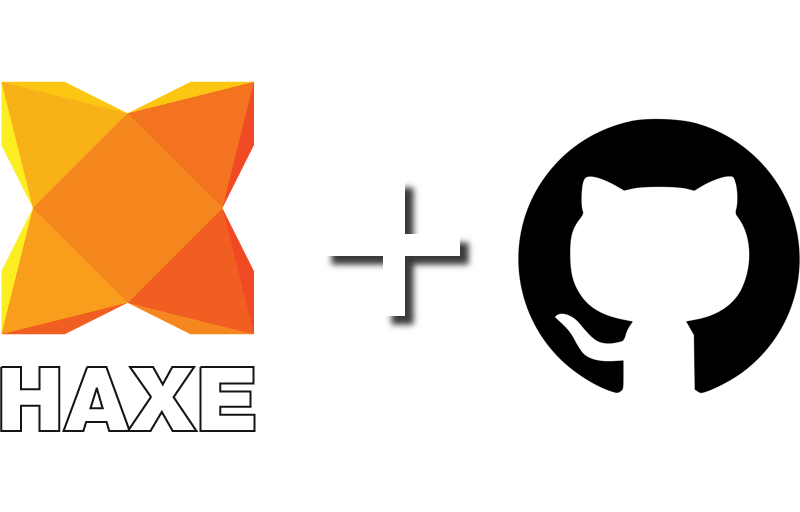
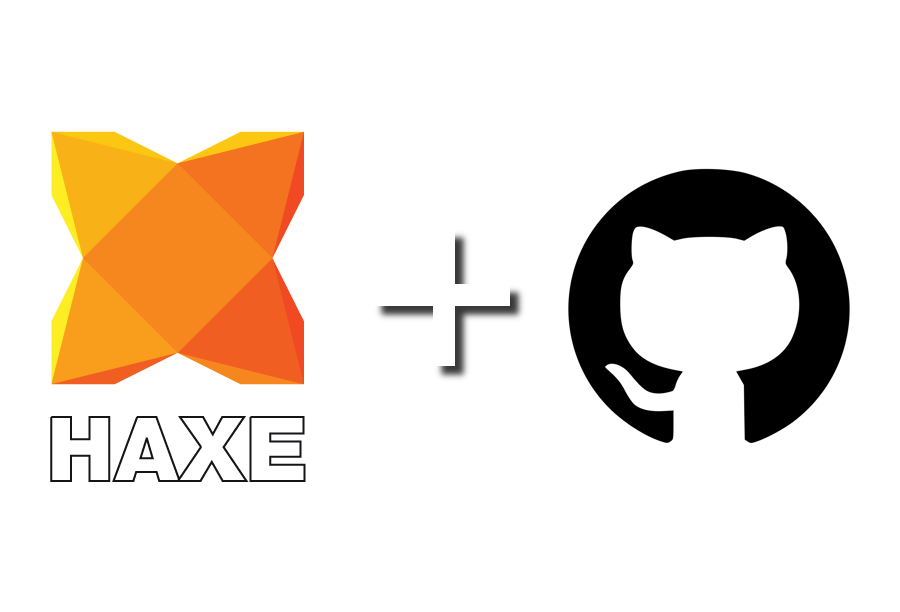
more stuff

diff --git a/README.md b/README.md
@@ -3,7 +3,7 @@
 
   Haxe functions to use the [Github API](https://docs.github.com/pt/rest?apiVersion=2022-11-28).
 
-  <img src="img/img.png" width=550/>
+  <img src="img/imgSharp.png" width=550/>
 
   ## Installation
 
